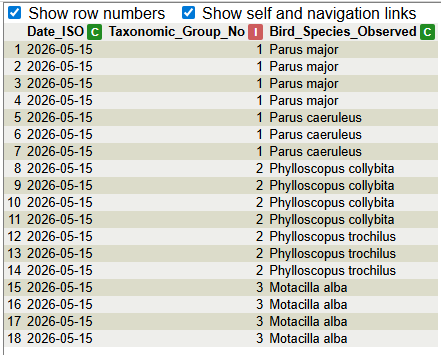
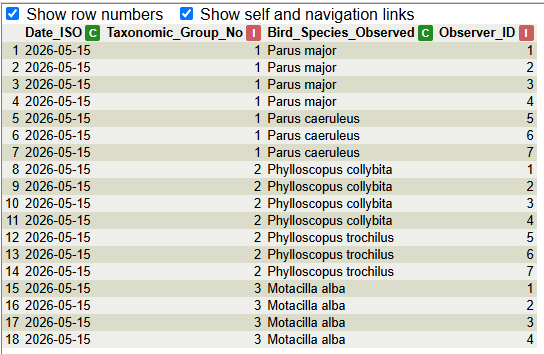
Fotos thematic

diff --git a/help/dataQuality.htm b/help/dataQuality.htm
@@ -438,7 +438,7 @@
                     specifically different types of positional quality (<strong>accuracy and validity</strong>).
                     It is possible to evaluate <strong>one or more types at the same time</strong> by checking the
                     <i>checkbox</i> for each one.
-                    This tool can be used with any kind of node that contains date-type data.
+                    This tool can be used with any kind of node that contains geospatial-type data.
                 <p>This is the data used in the example.</p>
                 <img src="positionalQuality_image1.png" alt="icon" class="toolPage_image">
                 <p>To display the dialog, <i>double left-click</i> on the node. This is the general appearance of the
@@ -542,10 +542,120 @@
                         ranges</strong>. Any value outside these constraints is considered invalid.</p>
 
                 <p><strong>Setting Up the Node: </strong></p>
+                <img src="thematicQuality_image0.png" alt="icon" class="toolPage_image"
+                    style="height:350px;width: auto; ">
 
                 <p><strong>How to Use the Node: </strong></p>
-                        // LLeida i LLeida sense espai
-                        // % superior a 100
+                <p><strong>Thematic quality</strong> allows you to evaluate the quality of your data,
+                    specifically different types of thrmatic quality (<strong>accuracy and validity</strong>).
+                    It is possible to evaluate <strong>one or more types at the same time</strong> by checking the
+                    <i>checkbox</i> for each one.
+                    This tool can be used with any kind of node.
+                </p>
+                <p>To display the dialog, <i>double left-click</i> on the node. This is the general appearance of the
+                    dialog; each part will be explained below. Different datasets will be used in the examples.</p>
+                </p>
+                <div class="image-wrapper" onclick="zoomToImage(this)"><img src="thematicQuality_image1.png" alt="icon"
+                        class="toolPage_image zoomable"></div>
+                <p><strong><u>Thematic accuracy:</u></strong></p>
+                <p><strong>Thematic accuracy by accuracy column:</strong></p>
+                <p>This is the data used in this example.</p>
+                <img src="thematicQuality_image20.png" alt="icon" class="toolPage_image">
+                <p>To calculate the <strong>overall accuracy of your dataset</strong>, select the
+                    <strong>column</strong> containing the accuracy values
+                    that have already been calculated. Check the <i>checkbox</i> and click the <i>OK button</i> at the
+                    bottom of the
+                    dialog
+                </p>
+                <div class="image-wrapper" onclick="zoomToImage(this)"><img src="thematicQuality_image21.png" alt="icon"
+                        class="toolPage_image zoomable"></div>
+                <p>This is the result of calculating the accuracy for all records.</p>
+                This dialog only appears after calculating the rate. To view
+                the result again, click on <a>Metadata</a> at the top of the table below.</p>
+                <img src="thematicQuality_image22.png" alt="icon" class="toolPage_image">
+                <p>When you click on Metadata, a dialog will appear showing all the <strong>metadata calculated so
+                        far</strong>.</p>
+                <img src="thematicQuality_image23.png" alt="icon" class="toolPage_image">
+                <p><strong>Thematic accuracy by values:</strong></p>
+                <p>
+                    To calculate accuracy using values, you have two options depending on the type of data: numeric or
+                    non-numeric. In both cases, the column to assess must be indicated on the left side (in grey). Use
+                    the selector to choose the column. Check the checkbox to apply this method.
+                </p>
+                <p>
+                <ul>
+                    <li><strong>Non-numeric:</strong></li>
+                </ul>
+                </p>
+                <p>This is the data used in this example.</p>
+                <img src="thematicQuality_image2.png" alt="icon" class="toolPage_image">
+                <p>
+                    Select <strong>Mode for non-numeric column (most frequent value and its frequency)</strong>. This
+                    can be applied to the entire dataset or grouped by another column (specified in <strong>Grouping
+                        mode</strong>). Select <strong>Grouped by column</strong> to apply this method by groups. If you
+                    choose this option, you can add two new columns (by checking the corresponding checkbox): one
+                    showing the grouped accuracy results and another showing the percentage of each value within the
+                    group. In this example, values will be grouped by <strong>Taxonomic_Group_No</strong>, and two new
+                    columns will be added.
+                </p>
+                <div class="image-wrapper" onclick="zoomToImage(this)"><img src="thematicQuality_image3.png" alt="icon"
+                        class="toolPage_image zoomable"></div>
+                <p>This is the result of calculating the accuracy for all records.</p>
+                This dialog only appears after calculating the rate. To view
+                the result again, click on <a>Metadata</a> at the top of the table below.</p>
+                <img src="thematicQuality_image4.png" alt="icon" class="toolPage_image">
+                <p>This is the result of adding these two new columns.</p>
+                <img src="thematicQuality_image5.png" alt="icon" class="toolPage_image">
+                <p>When you click on Metadata, a dialog will appear showing all the <strong>metadata calculated so
+                        far</strong>.</p>
+                <img src="thematicQuality_image5_1.png" alt="icon" class="toolPage_image">
+                <li><strong>Numeric:</strong></li>
+                <p>This is the data used in this example.</p>
+                <img src="thematicQuality_image6.png" alt="icon" class="toolPage_image">
+                <p> To use this method is samne explanation as non-numeric method explained before, but selecting
+                    <strong>Mean
+                        of the standard deviation (numeric)</strong>
+                </p>
+                <img src="thematicQuality_image7.png" alt="icon" class="toolPage_image">
+                <p>This is the result of calculating the accuracy for all records.</p>
+                This dialog only appears after calculating the rate. To view
+                the result again, click on <a>Metadata</a> at the top of the table below.</p>
+                <img src="thematicQuality_image8.png" alt="icon" class="toolPage_image">
+                <p>This is the result of adding this new columns.</p>
+                <img src="thematicQuality_image9.png" alt="icon" class="toolPage_image">
+                <p>When you click on Metadata, a dialog will appear showing all the <strong>metadata calculated so
+                        far</strong>.</p>
+                <img src="thematicQuality_image10.png" alt="icon" class="toolPage_image">
+
+                <p><strong><u>Thematic validity:</u></strong></p>
+                <p>
+                    To calculate validity percentatge, you have two options depending on the type of data: numeric or
+                    non-numeric. In both cases, the column to assess must be indicated on the left side (in grey). Use
+                    the selector to choose the column. Check the checkbox to apply this method.
+                </p>
+
+                <ul>
+                    <li><strong>Non-numeric:</strong></li>
+                </ul>
+                <p>To evaluate thematic validity with non-numeric data it is necessary to link a node with "the list" of
+                    valid values.</p>
+                <img src="thematicQuality_image15.png" alt="icon" class="toolPage_image">
+                <p>This is the data to be evaluated used in this example.</p>
+                <img src="thematicQuality_image2.png" alt="icon" class="toolPage_image">
+                <p>This is the data used as reference to evaluate the data.</p>
+                <img src="thematicQuality_image15_1.png" alt="icon" class="toolPage_image">
+
+                <img src="thematicQuality_image16.png" alt="icon" class="toolPage_image">
+                <img src="thematicQuality_image17.png" alt="icon" class="toolPage_image">
+                <img src="thematicQuality_image19.png" alt="icon" class="toolPage_image">
+                <img src="thematicQuality_image18.png" alt="icon" class="toolPage_image">
+                <img src="thematicQuality_image11.png" alt="icon" class="toolPage_image">
+                <img src="thematicQuality_image12.png" alt="icon" class="toolPage_image">
+                <img src="thematicQuality_image13.png" alt="icon" class="toolPage_image">
+                <img src="thematicQuality_image14.png" alt="icon" class="toolPage_image">
+
+
+
 
 
                 <p> <strong>Recipes where this tool is used:</strong> </p>